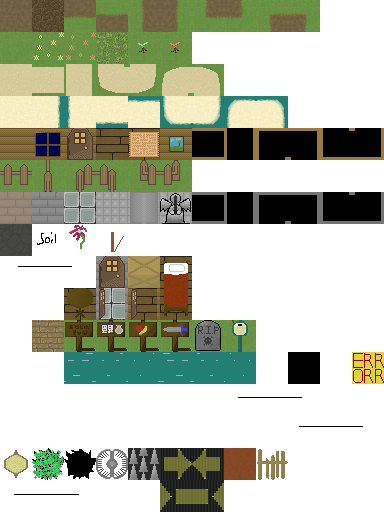
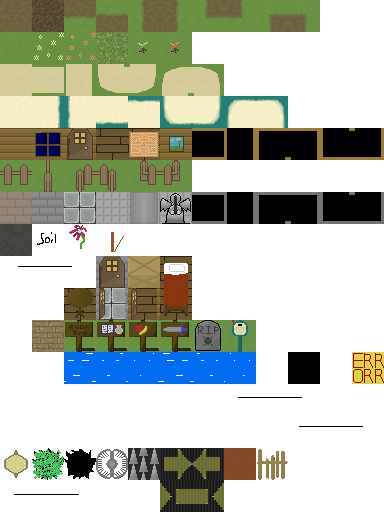
Fix Map Colour

Changed region(s): [[0.1562, 0.6875, 0.6875, 0.75]]

diff --git a/core/assets/Maps/Terrain.tsx b/core/assets/Maps/Terrain.tsx
@@ -11,6 +11,11 @@
    <property name="Biome" value="Grassland"/>
   </properties>
  </tile>
+ <tile id="14">
+  <properties>
+   <property name="Biome" value="Grassland"/>
+  </properties>
+ </tile>
  <tile id="16">
   <properties>
    <property name="Biome" value="Grassland"/>
